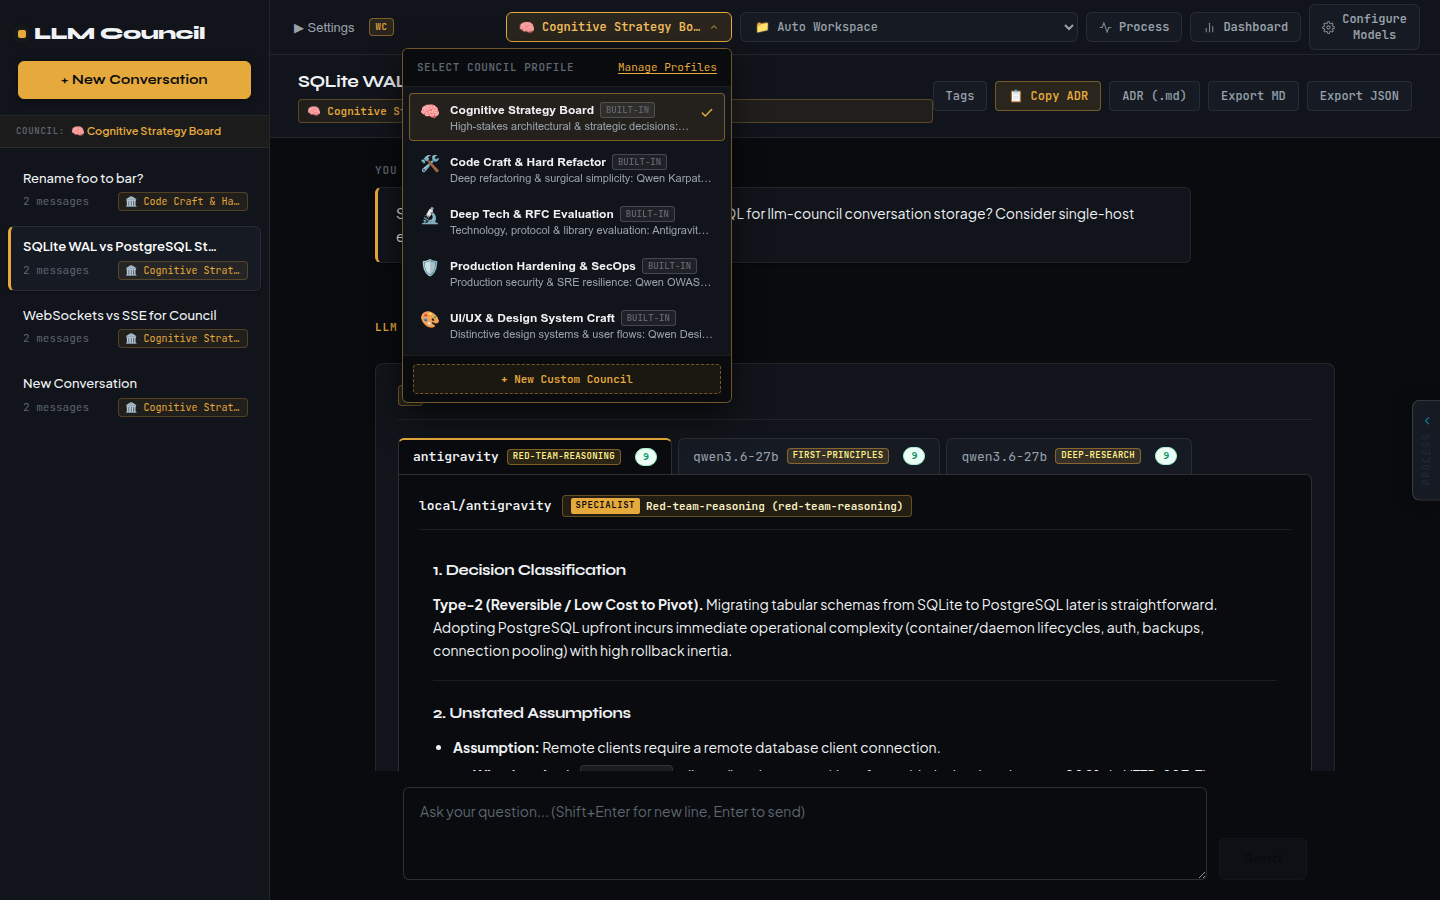
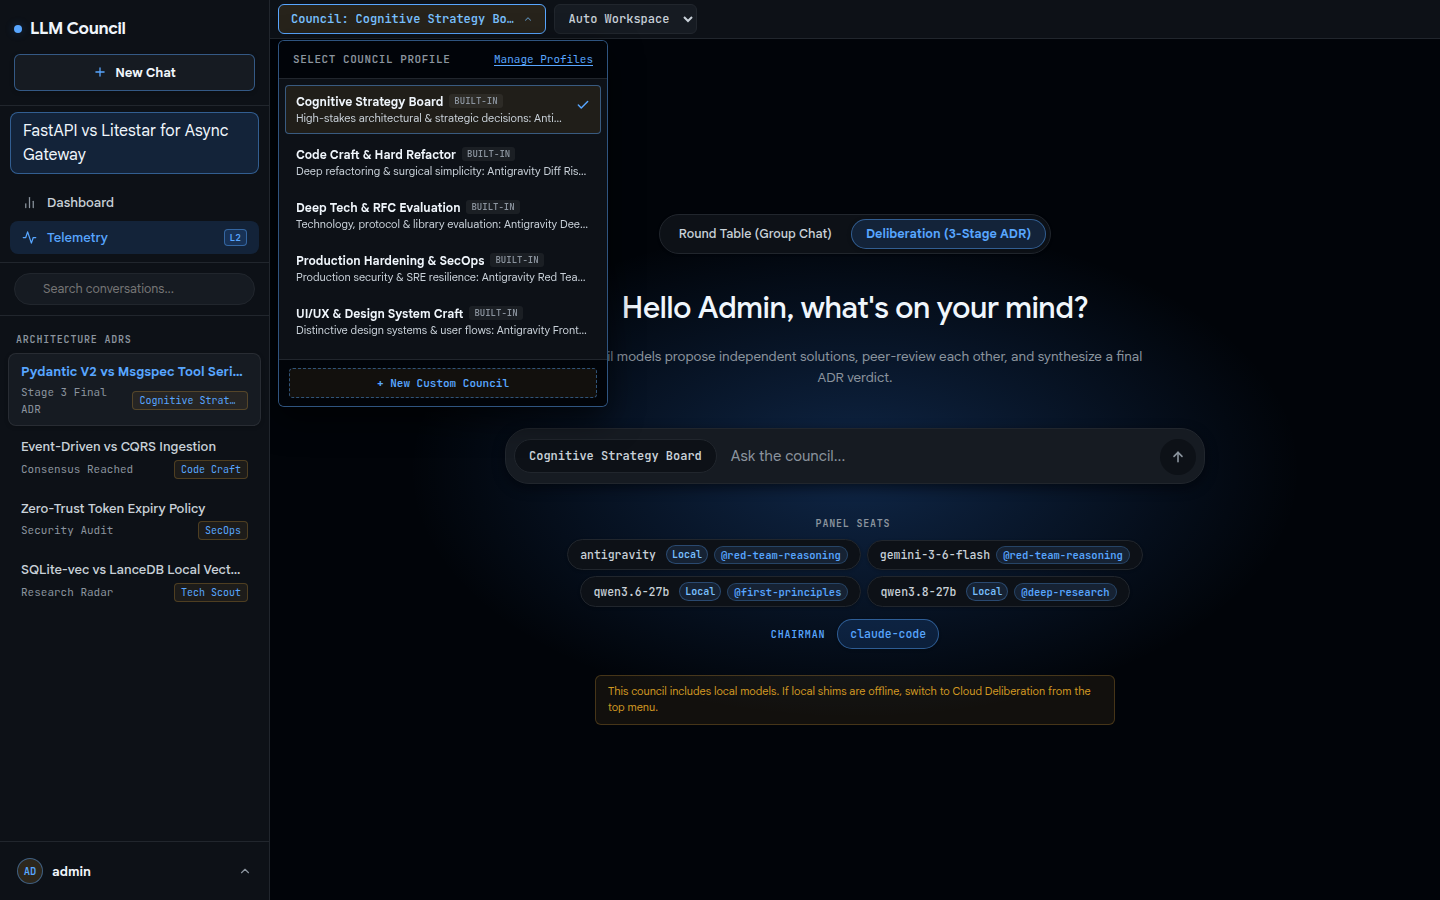
docs: refresh UI screenshots with clean session and expand feature documentation

diff --git a/README.md b/README.md
@@ -34,54 +34,90 @@ Karpathy built the original `llm-council` as a fun "Saturday vibe-hack" — a li
 | Capability | Karpathy Original (`llm-council`) | LLM Council MCP (This Fork) |
 | :--- | :--- | :--- |
 | **Primary Consumer** | Humans in a Web Browser | **Autonomous AI Coding Agents (MCP)** + Humans via Web UI |
-| **Agent Interface** | ❌ None (Web UI only) | **Native FastMCP Server (`mcp/`)** with structured ADR generation |
-| **Model Infrastructure** | Cloud-only via OpenRouter | **Hybrid:** Cloud (OpenRouter) + Local vLLM (`local/qwen3.6-27b`) + Host CLI Shims (`local/claude-code`, `local/antigravity`) |
-| **Model Specialization** | Generic system prompts | **Domain Skill Injection:** Models decorated with `@red-team-reasoning`, `@first-principles`, `@karpathy-guidelines`, etc. |
-| **Board Profiles** | Single static list of models | **5 Specialized Domain Boards:** Cognitive Strategy, Code Craft, Deep Tech, SecOps, and UI/UX |
-| **Consensus Mechanics** | Linear 3-stage execution | **Early Consensus Bypass, Weighted Consensus (by win rate), Multi-Chairman, and Adversarial Validation** |
+| **Agent Interface** | ❌ None (Web UI only) | **Native FastMCP Server (`mcp/`)** with structured ADR generation (`ask_council`, `list_councils`, `scout_candidates`) |
+| **Model Infrastructure** | Cloud-only via OpenRouter | **Hybrid:** Cloud (OpenRouter, Gemini, Groq) + Local vLLM (`local/qwen3.6-27b`) + Host CLI Shims (`local/claude-code`, `local/antigravity`) |
+| **Model Specialization** | Generic system prompts | **Domain Skill Injection:** Models decorated with `@red-team-reasoning`, `@first-principles`, `@karpathy-guidelines`, `@deep-research`, `@supply-chain-audit`, etc. |
+| **Board Profiles** | Single static list of models | **7 Specialized Domain Boards:** Cognitive Strategy, Code Craft, Deep Tech, SecOps, UI/UX Craft, Tech Scout, and Cloud Deliberation |
+| **Deliberation Modes** | Linear 3-stage execution | **Dual-Engine:** 3-Stage ADR Deliberation + Freeform **Round Table Group Chat** with unconstrained turn-taking |
+| **Consensus Mechanics** | Simple majority / averaging | **Early Consensus Bypass, Weighted Consensus (by win rate), Multi-Chairman Ensembles, and Adversarial Validation** |
 | **Debate Protocol** | ❌ None | **Multi-round structured debate:** Position → Critique → Rebuttal → Chairman Judgment |
 | **Decision Output** | Unbounded text transcript | **Strict ≤150-word Markdown ADR** (Verdict, Confidence, Recommendation, Dissenting Risk) |
-| **Telemetry & Metrics** | ❌ None | **Empirical Performance Dashboard:** Elo win-rates, peer evaluation stats, and token economics |
+| **Telemetry & Observability** | ❌ None | **Empirical Performance Dashboard** (Elo win-rates, peer stats) + **Live Process Telemetry Panel** (L0–L3 detail, latency, tokens/s) |
 | **Context Ingestion** | ❌ Manual copy-paste | **Automated Local Workspace & GitHub Repository context resolution** |
-| **Technology Scouting** | ❌ None (Hallucinated from weights) | **Autonomous Research Engine:** Live GitHub repo telemetry + DuckDuckGo Lite search + local skills discovery |
+| **Technology Scouting** | ❌ None (Hallucinated from weights) | **Autonomous Research Engine:** Live PyPI/GitHub telemetry + DuckDuckGo search + local skills discovery |
+| **Security & Auth** | ❌ Unauthenticated local script | **JWT session tokens, PBKDF2 credential hashing, Rate Limiting, and CORS isolation** |
 | **Deployment** | Local scripts with hardcoded configs | **12-Factor Docker Compose stack** with zero leaked host credentials via `.env` |
 
 ---
 
-## 📸 Visual Tour of New Capabilities
+## 📸 Visual Tour of Capabilities
 
 ### 1. Stage 1: Domain-Specialized Independent Responses
-Models are not treated as generic chatbots. Each seat operates with an injected domain skill and provides explicit confidence calibration and structured reasoning.
+Models operate as dedicated domain specialists rather than generic chatbots. Each seat evaluates the problem through an injected skill lens, providing evidence-backed technical trade-offs, confidence calibration (1–10), and physical constraint analysis.
 
 <p align="center">
   <img src="docs/images/stage1_responses.png" alt="Stage 1 Specialist Responses" width="95%">
 </p>
 
+- **Specialist Roles:** `@deep-research` verifies primary documentation and specifications; `@supply-chain-audit` validates package pinning, license compliance, and maintainer surface; `@first-principles` strips framework marketing to benchmark raw compute/memory/IO physics.
+- **Peer Review & Ranking:** In Stage 2, seats anonymously critique peer positions, expose hallucinations, and vote on a ranked ballot before the Chairman synthesizes the binding ADR.
+
+---
+
 ### 2. Specialized Council Boards
-Switch between dedicated expert boards with a single click or specify `council_id` in MCP tool calls:
-- 🧠 **`cognitive-strategy`:** High-stakes architectural & strategic trade-offs (Red Team + First Principles + Deep Research).
-- 🛠 **`code-craft`:** Deep refactoring, diff-risk minimization & surgical simplicity.
-- 🔬 **`deep-tech`:** Protocol RFCs, performance limits, and dependency audits.
-- 🛡 **`sec-ops`:** Production security, OWASP audits, and SRE resilience.
-- 🎨 **`frontend-craft`:** Distinctive design systems, UI/UX DNA, and client workflows.
+Switch between dedicated expert boards with a single click or target specific boards programmatically via `council_id` in MCP calls:
 
 <p align="center">
   <img src="docs/images/council_boards.png" alt="Specialized Council Boards" width="95%">
 </p>
 
-### 3. Empirical Performance Dashboard
-Track which models and skills provide the most accurate evaluations through peer review. Features historical win rates, peer agreement metrics, and Chairman synthesis quality.
+- 🧠 **`cognitive-strategy`:** High-stakes architectural & strategic trade-offs (Red Team + First Principles + Deep Research).
+- 🛠 **`code-craft`:** Deep refactoring, diff-risk minimization, and surgical simplicity (Antigravity Diff Risk + Qwen Verification + Claude Referee).
+- 🔬 **`deep-tech`:** Protocol RFCs, low-level binary formats, performance limits, and dependency audits.
+- 🛡 **`sec-ops`:** Production security, zero-trust policies, OWASP audits, and SRE resilience.
+- 🎨 **`frontend-craft`:** Distinctive design systems, UI/UX DNA, and responsive client workflows.
+- 📡 **`tech-scout`:** Automated technology scouting, candidate radar, and adopt-vs-build evaluations.
+- ☁ **`cloud-deliberation`:** Responsive zero-cost cloud and local models for fast fallback when host shims are offline.
+
+---
+
+### 3. Round Table Multi-Agent Group Chat & Live Process Telemetry
+Engage in collaborative, unconstrained multi-agent discussions alongside the structured 3-stage deliberation pipeline:
+
+<p align="center">
+  <img src="docs/images/round_table_chat.png" alt="Round Table Multi-Agent Group Chat" width="95%">
+</p>
+
+- **Direct Conversational Collaboration:** Mention `@all` to broadcast or `@model` (e.g. `@qwen`, `@antigravity`) to target specific agents with tool-calling capabilities.
+- **Live Process Telemetry (L0–L3):** Slide between detail levels to inspect step-by-step model reasoning, stage transitions, token generation speeds, and consensus voting metrics in real time.
+
+---
+
+### 4. Empirical Performance Dashboard
+Track which models and domain skills deliver the most accurate evaluations based on historical peer review outcomes:
 
 <p align="center">
   <img src="docs/images/performance_dashboard.png" alt="Performance Dashboard" width="95%">
 </p>
 
-### 4. Advanced Consensus Modes & Settings
-Configure early-exit consensus, Chain-of-Thought reasoning, adversarial reviews, and weighted voting directly from the settings drawer:
+- **Leaderboard Metrics:** Win rates, average peer rank, average confidence calibration, total queries, and unique model evaluations.
+- **Model & Chairman Analytics:** Inspect historical win percentages and peer alignment metrics across observation windows.
+
+---
+
+### 5. Advanced Consensus Modes & Deliberation Presets
+Configure reasoning depth and consensus algorithms directly from the settings drawer:
 
 <p align="center">
-  <img src="docs/images/advanced_settings.png" alt="Advanced Settings" width="95%">
+  <img src="docs/images/advanced_settings.png" alt="Advanced Deliberation Settings" width="95%">
 </p>
+
+- **Deliberation Presets:**
+  - ⚡ **Fast:** Skips Stage 3 synthesis when unanimous peer consensus is detected; reuses cached answers.
+  - ⚖ **Balanced:** Full 3-stage deliberation with weighted peer votes (default).
+  - 🧠 **Deep:** Structured reasoning passes, critique-and-revise, and devil's advocate challenge rounds.
+  - ⚔ **Debate:** Multi-round adversarial debate: Position → Direct Critique → Rebuttal → Chairman Judgment.
+- **Consensus Toggles:** Multi-Chairman Ensemble, Win-Rate Weighted Consensus, Early Consensus Exit, and Sub-Question Decomposition.
 
 ---
 
@@ -103,10 +139,10 @@ To prevent agents from lazily delegating routine tasks, `ask_council` enforces a
 Calls to `ask_council` return a structured, high-density Markdown Architectural Decision Record:
 
 ```markdown
-## Verdict: Use SQLite with WAL mode for local conversation storage
-**Confidence:** Consensus — 3 models evaluated (top ranked: local/antigravity@red-team-reasoning)
-**Recommendation:** Deploy SQLite with PRAGMA journal_mode=WAL and PRAGMA busy_timeout=5000. It eliminates network daemon failure modes and delivers near-zero operational complexity.
-**Dissenting risk:** If write contention exceeds 1% busy timeouts under horizontal multi-process scale, pivot to PostgreSQL.
+## Verdict: Adopt SQLite-vec as the primary embedded vector store for sub-100k local embeddings.
+**Confidence:** Consensus — 3 models evaluated (top ranked: local/antigravity@deep-research)
+**Recommendation:** SQLite-vec delivers a single compiled C extension with zero external dependencies and guaranteed format stability through 2050. At <100k vectors, memory-mapped SIMD flat scan delivers sub-5ms latency with 100% recall.
+**Dissenting risk:** Single primary maintainer risk; if scale exceeds 1M vectors or distributed out-of-core indexing is required, evaluate LanceDB.
 ```
 
 ---
@@ -148,51 +184,34 @@ Open **http://localhost:5173** and sign in with the printed credentials (usernam
 
 ### 2. Set up your models
 
-The built-in boards are tuned for the author's machine: they use host-side agent shims
-(`local/claude-code`, `local/antigravity`), a local vLLM server (`local/qwen3.6-27b`) and
-API-key providers (`custom/gemini-*`, `custom/groq`). **On a fresh install those seats
-won't answer until you configure them.** The quickest path:
+The built-in boards support host-side agent shims (`local/claude-code`, `local/antigravity`), a local vLLM server (`local/qwen3.6-27b`) and API-key providers (`custom/gemini-*`, `custom/groq`, OpenRouter). **On a fresh install those seats won't answer until you configure them.** The quickest path:
 
 1. Open **Configure Models** in the UI.
-2. Create your own council (or edit a copy of a built-in one) using OpenRouter model IDs,
-   e.g. `google/gemma-4-31b-it:free`, `nvidia/nemotron-3-super-120b-a12b:free`. At least 2 seats
-   are required. The free lineup changes often; see the current list at
-   [openrouter.ai/models?q=free](https://openrouter.ai/models?q=free).
-3. Optional: under **Model Studio & Providers**, add other OpenAI-compatible endpoints
-   (Ollama, LM Studio, vLLM, Groq, Gemini, DeepSeek, ...) and use them as seats.
+2. Create your own council (or edit a copy of a built-in one) using OpenRouter model IDs, e.g. `google/gemma-4-31b-it:free`, `nvidia/nemotron-3-super-120b-a12b:free`. At least 2 seats are required. The free lineup changes often; see the current list at [openrouter.ai/models?q=free](https://openrouter.ai/models?q=free).
+3. Optional: under **Model Studio & Providers**, add other OpenAI-compatible endpoints (Ollama, LM Studio, vLLM, Groq, Gemini, DeepSeek, ...) and use them as seats.
 
-Free OpenRouter models are rate-limited, so expect occasional `429` errors on busy models;
-the council continues with whichever seats answered.
+Free OpenRouter models are rate-limited, so expect occasional `429` errors on busy models; the council continues with whichever seats answered.
 
 ### 3. Optional: bring the built-in boards online
 
-Each built-in seat type can be activated on your machine. Enable whichever you have;
-seats you don't enable simply fail and the council continues with the rest.
+Each built-in seat type can be activated on your machine. Enable whichever you have; seats you don't enable simply fail and the council continues with the rest.
 
 #### Claude Code & Antigravity seats (`local/claude-code`, `local/antigravity`)
 
-Small host-side bridges in [`infra/local-models/`](infra/local-models/) turn a logged-in CLI
-into an OpenAI-compatible endpoint the backend container can call. They must run on the host
-(not in Docker) because they use your CLI login. Each request is a real CLI call on your
-account, and the CLIs run in restricted/sandboxed mode (no tools, no file writes).
+Small host-side bridges in [`infra/local-models/`](infra/local-models/) turn a logged-in CLI into an OpenAI-compatible endpoint the backend container can call. They must run on the host (not in Docker) because they use your CLI login. Each request is a real CLI call on your account, and the CLIs run in restricted/sandboxed mode (no tools, no file writes).
 
 1. Install and log in to the CLI(s) you have:
-   [Claude Code](https://docs.claude.com/en/docs/claude-code) (`claude`, run it once to log in)
-   and/or Google Antigravity (`agy`).
+   [Claude Code](https://docs.claude.com/en/docs/claude-code) (`claude`, run it once to log in) and/or Google Antigravity (`agy`).
 2. Run:
    ```bash
    ./setup.sh shims
    ```
    It detects which CLIs are installed, generates a per-shim secret in `.env`, and
-   - **Linux (systemd):** installs and starts user services
-     `llm-council-claude-code-shim` / `llm-council-antigravity-shim`, bound to the Docker
-     bridge address so only containers (not your LAN) can reach them. Logs:
-     `journalctl --user -u llm-council-claude-code-shim -f`.
+   - **Linux (systemd):** installs and starts user services `llm-council-claude-code-shim` / `llm-council-antigravity-shim`, bound to the Docker bridge address so only containers (not your LAN) can reach them. Logs: `journalctl --user -u llm-council-claude-code-shim -f`.
    - **macOS / no systemd:** prints the command to run each shim in a terminal.
 3. It restarts the backend so it picks up the secrets. The Claude seats should now answer.
 
-To remove them: `systemctl --user disable --now llm-council-claude-code-shim llm-council-antigravity-shim`
-and delete the unit files in `~/.config/systemd/user/`.
+To remove them: `systemctl --user disable --now llm-council-claude-code-shim llm-council-antigravity-shim` and delete the unit files in `~/.config/systemd/user/`.
 
 #### Local model seat (`local/qwen3.6-27b`)
 
@@ -210,10 +229,7 @@ QWEN_MODEL_ID=qwen3:8b
 
 #### Gemini & Groq seats (`custom/gemini-3-6-flash`, `custom/groq`)
 
-Add them under **Configure Models → Model Studio & Providers** with your own API keys
-(both have free tiers). The seat ID is derived from the friendly name, so name them exactly
-**`Gemini 3.6 Flash`** (→ `custom/gemini-3-6-flash`) and **`Groq`** (→ `custom/groq`) for
-the built-in boards to pick them up.
+Add them under **Configure Models → Model Studio & Providers** with your own API keys (both have free tiers). The seat ID is derived from the friendly name, so name them exactly **`Gemini 3.6 Flash`** (→ `custom/gemini-3-6-flash`) and **`Groq`** (→ `custom/groq`) for the built-in boards to pick them up.
 
 ### Configuration reference
 
@@ -232,7 +248,7 @@ After editing `.env`, run `./setup.sh` again to apply it.
 
 > Opening the UI to your LAN? Keep `AUTH_ENABLED=true`: the API spends your API credits.
 
-### 3. Connect MCP to Your Agents
+### 4. Connect MCP to Your Agents
 
 ```bash
 cd mcp
@@ -272,8 +288,8 @@ cd ..
 
 - **Core Engine:** FastAPI, Async HTTPX, Pydantic, uv
 - **Protocol:** FastMCP (Model Context Protocol stdio transport)
-- **Frontend:** React 18, Vite, Custom Design System, React Markdown
-- **Models:** OpenRouter, vLLM (Qwen 2.5/3.6), Local Host Shims (Claude Code CLI, Antigravity CLI)
+- **Frontend:** React 18, Vite, Obsidian & Azure Design System, React Markdown
+- **Models:** OpenRouter, vLLM (Qwen 2.5/3.6/3.8), Local Host Shims (Claude Code CLI, Antigravity CLI), Gemini, Groq
 - **Containerization:** Docker & Docker Compose
 
 ---
